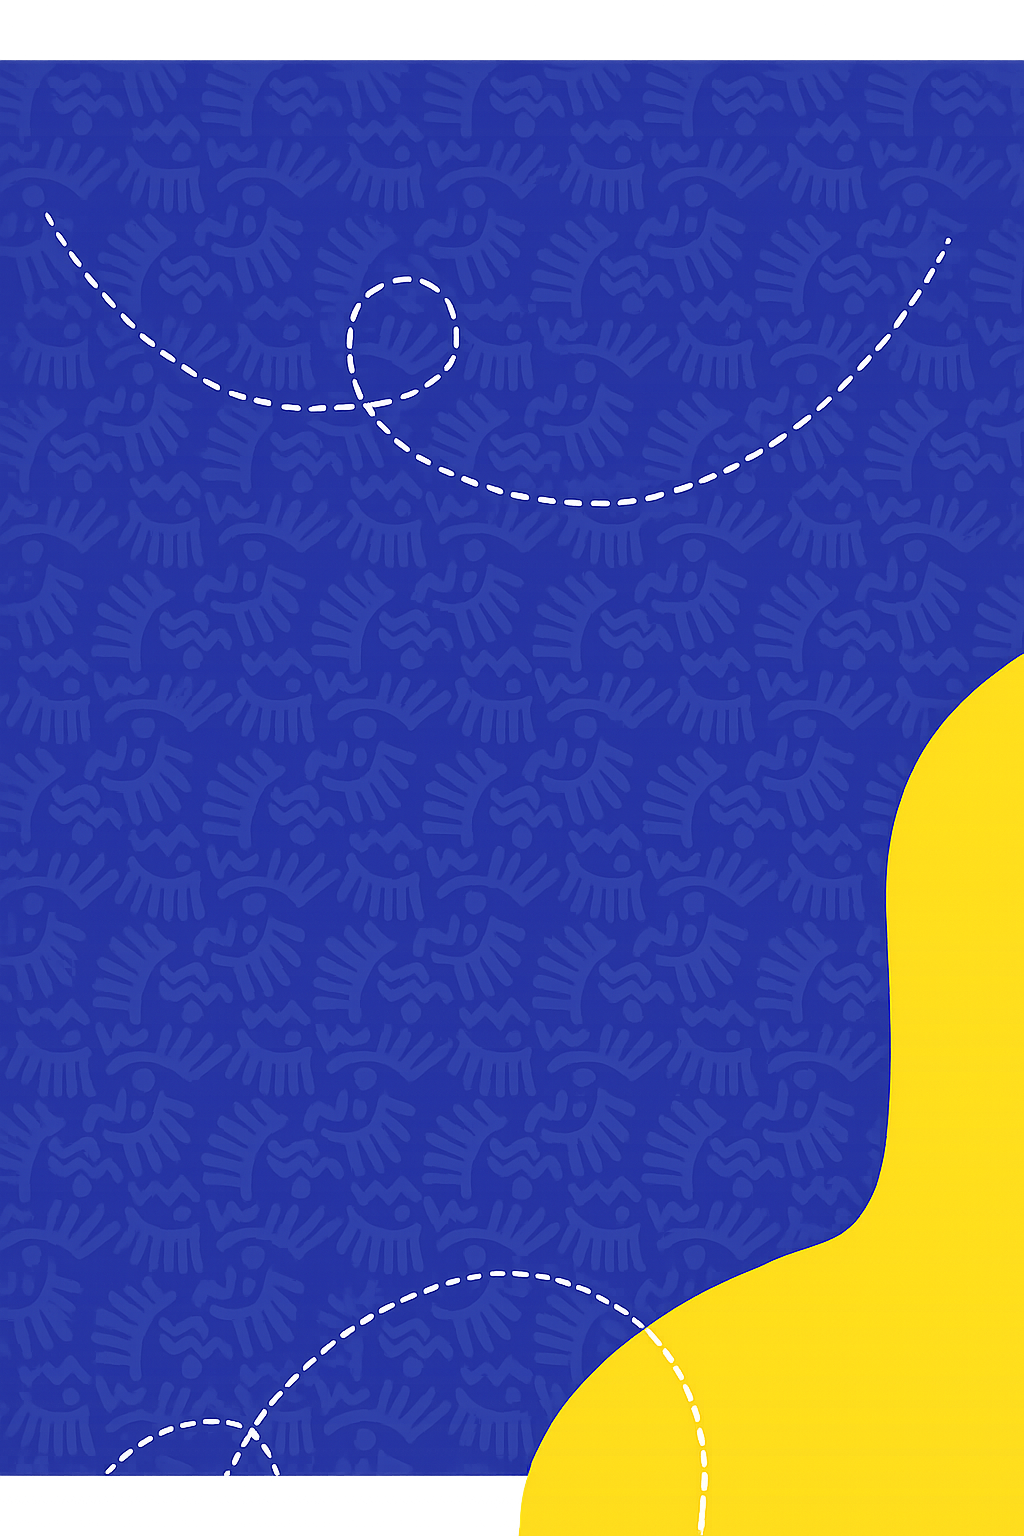
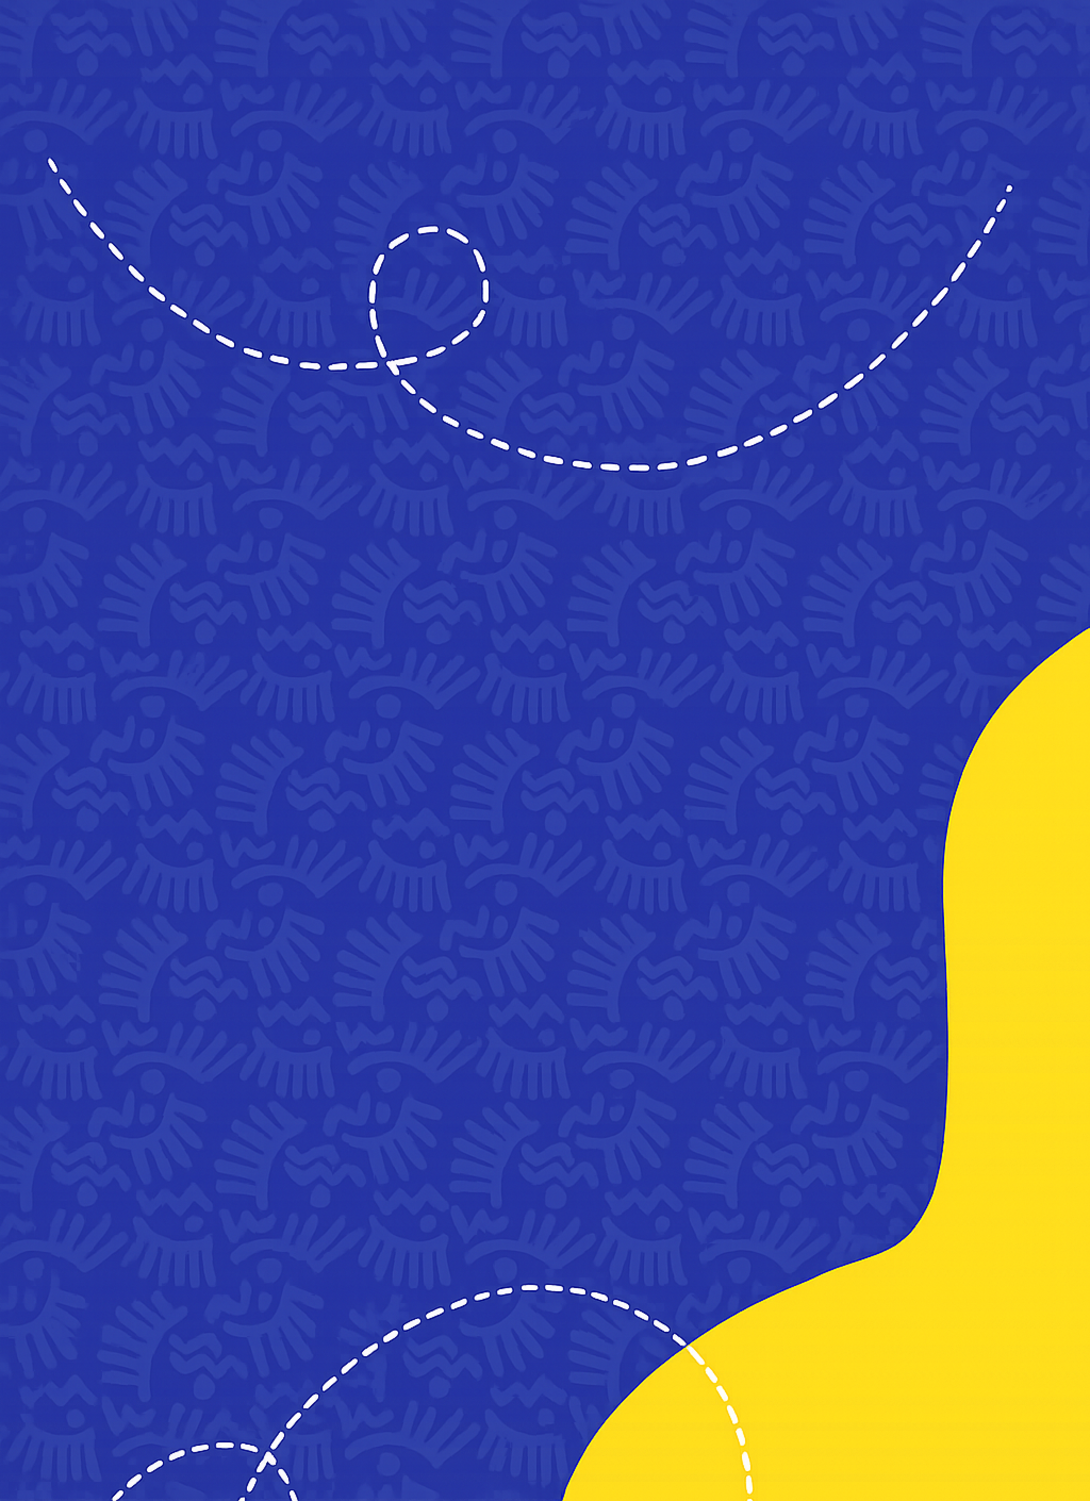
Correcciones

diff --git a/src/features/13-15/actividades/Act01.jsx b/src/features/13-15/actividades/Act01.jsx
@@ -92,7 +92,7 @@ const Act01 = ({ data, onComplete, onBack, rango }) => {
             return (
                 <div
                 key={paso.id}
-                className="mb-12 border-b pb-10 last:border-none last:pb-0 last:mb-4"
+                className="mb-8 last:mb-4"
                 >
                 {/* Encabezado del Sub-paso */}
                 <div className="flex items-center gap-4 mb-6">

diff --git a/src/features/13-15/actividades/Act02.jsx b/src/features/13-15/actividades/Act02.jsx
@@ -99,7 +99,7 @@ const Act02 = ({ data, onComplete, onBack, rango }) => {
             return (
                 <div
                 key={paso.id+2}
-                className="mb-12 border-b pb-10 last:border-none last:pb-0 last:mb-4"
+                className="mb-8 last:mb-4"
                 >
                 {/* Encabezado del Sub-paso */}
                 <div className="flex items-center gap-4 mb-6">